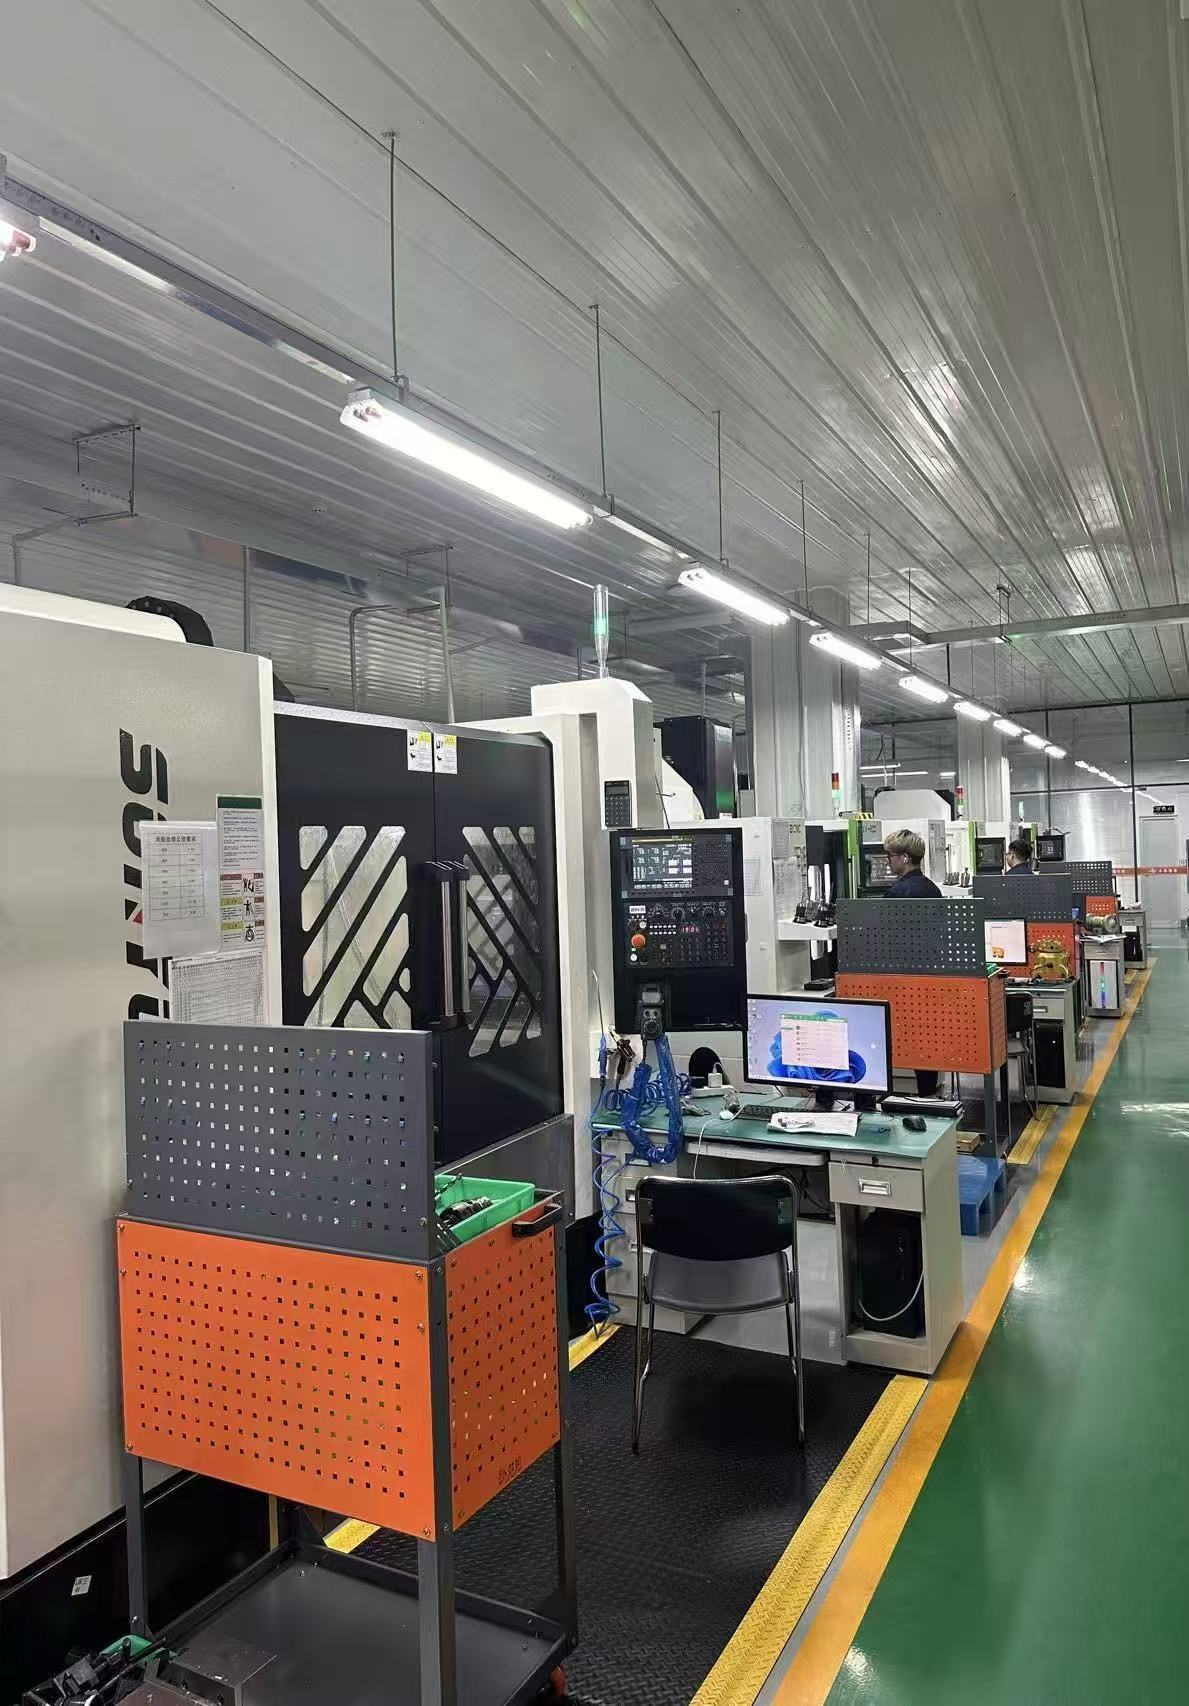
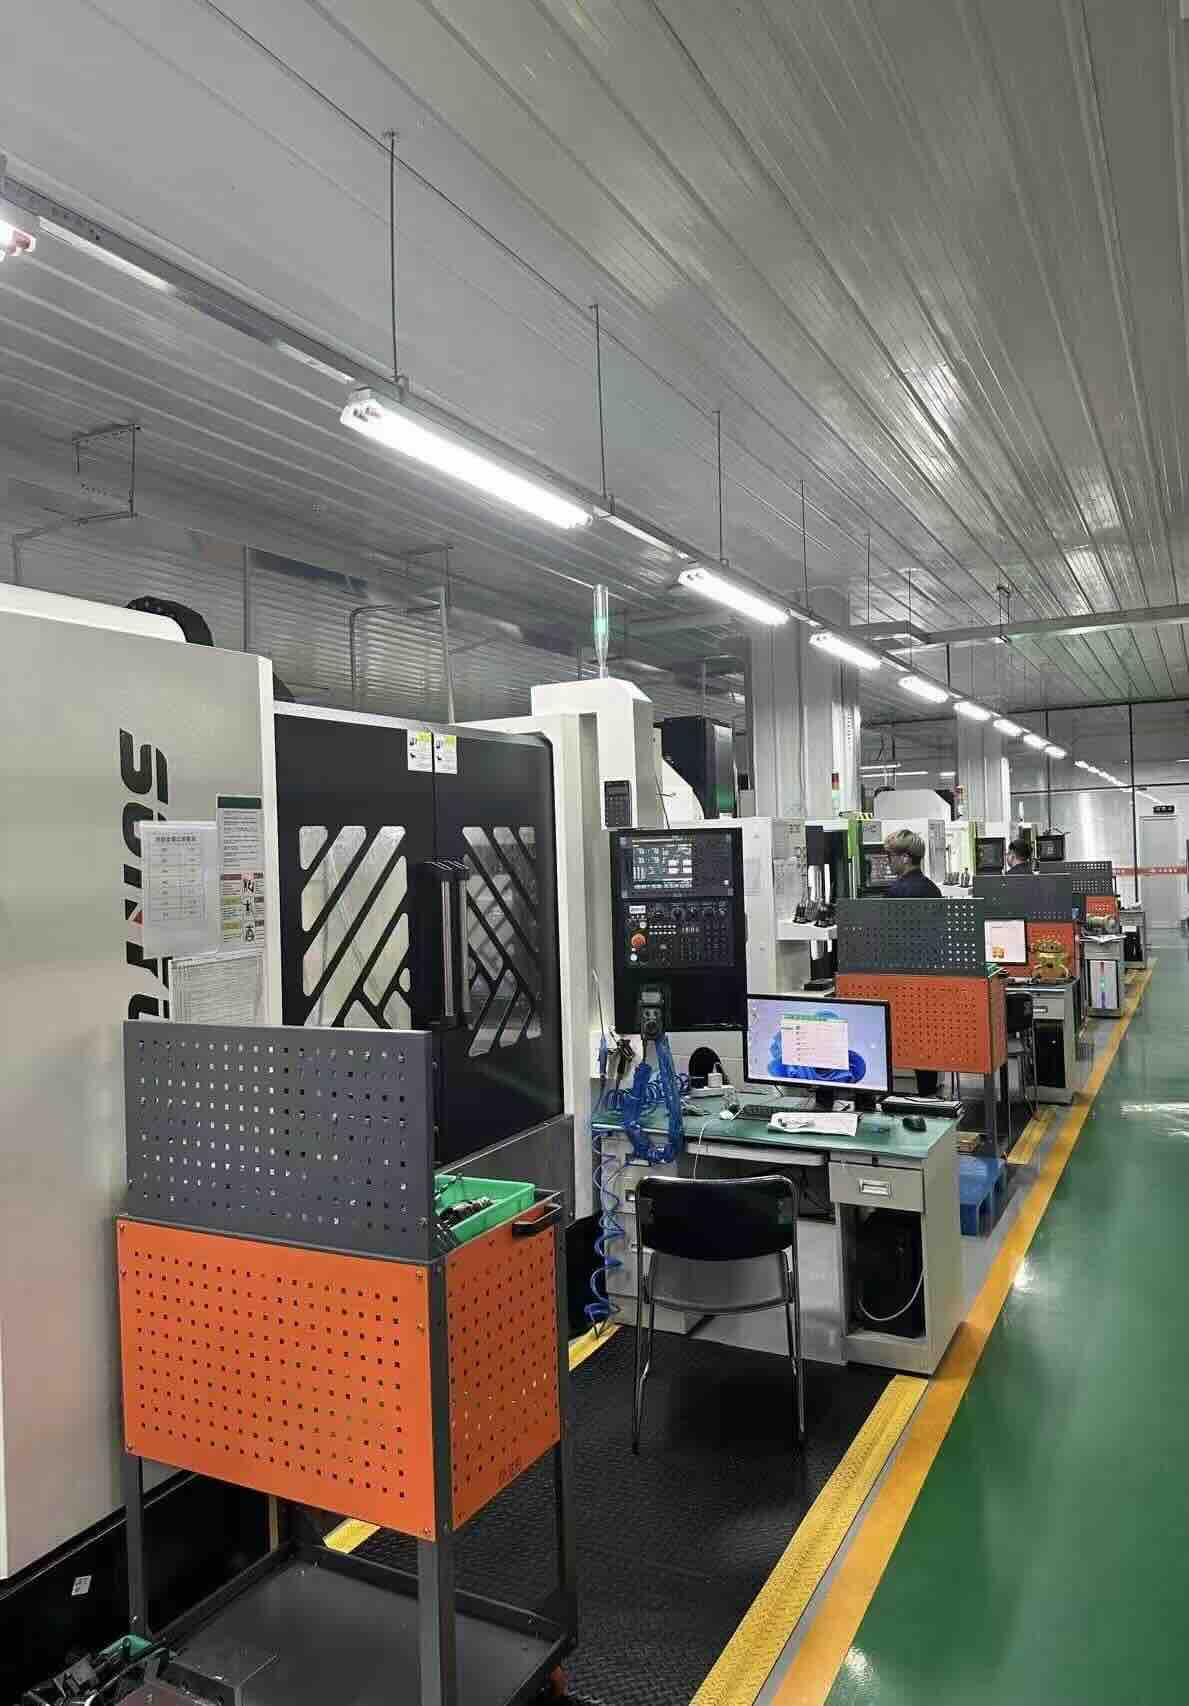
Downgrade videos and images quality

diff --git a/index.html b/index.html
@@ -1159,7 +1159,7 @@
   <!-- HERO -->
   <section class="hero" id="about">
     <div class="hero-video-wrap">
-      <video src="img/hero-vedio.webm" autoplay loop muted playsinline></video>
+      <video src="img/hero-vedio-480.webm" autoplay loop muted playsinline></video>
     </div>
     <div class="hero-bg"></div>
     <div class="hero-label">Dalian Development Zone</div>
